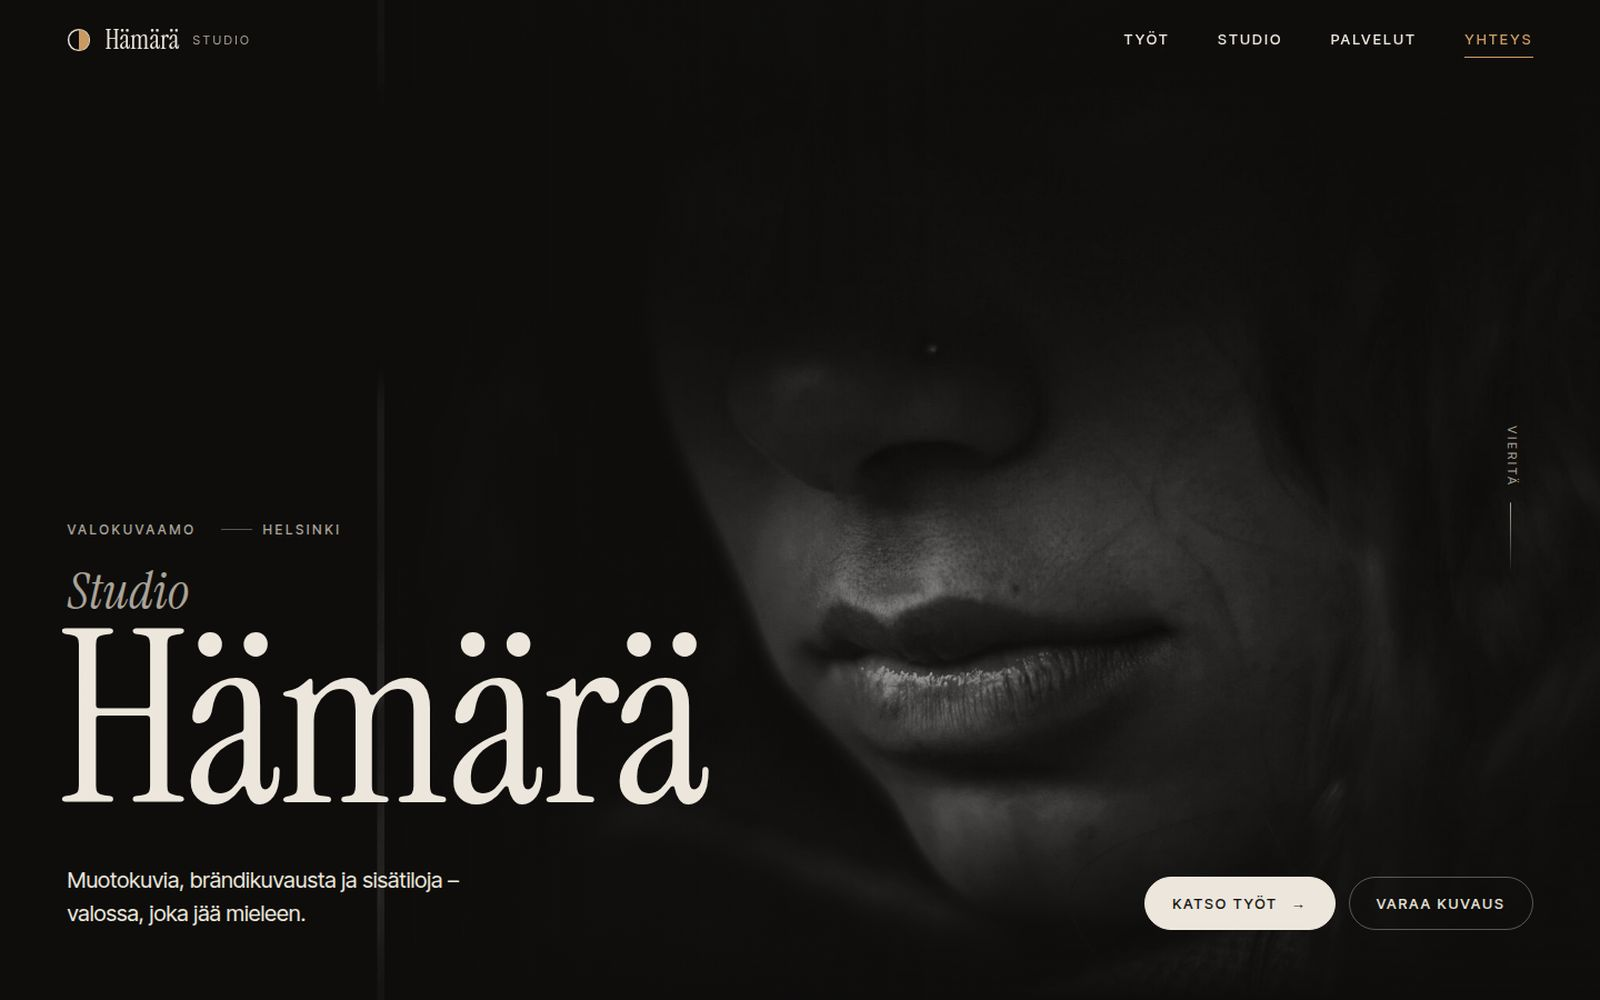
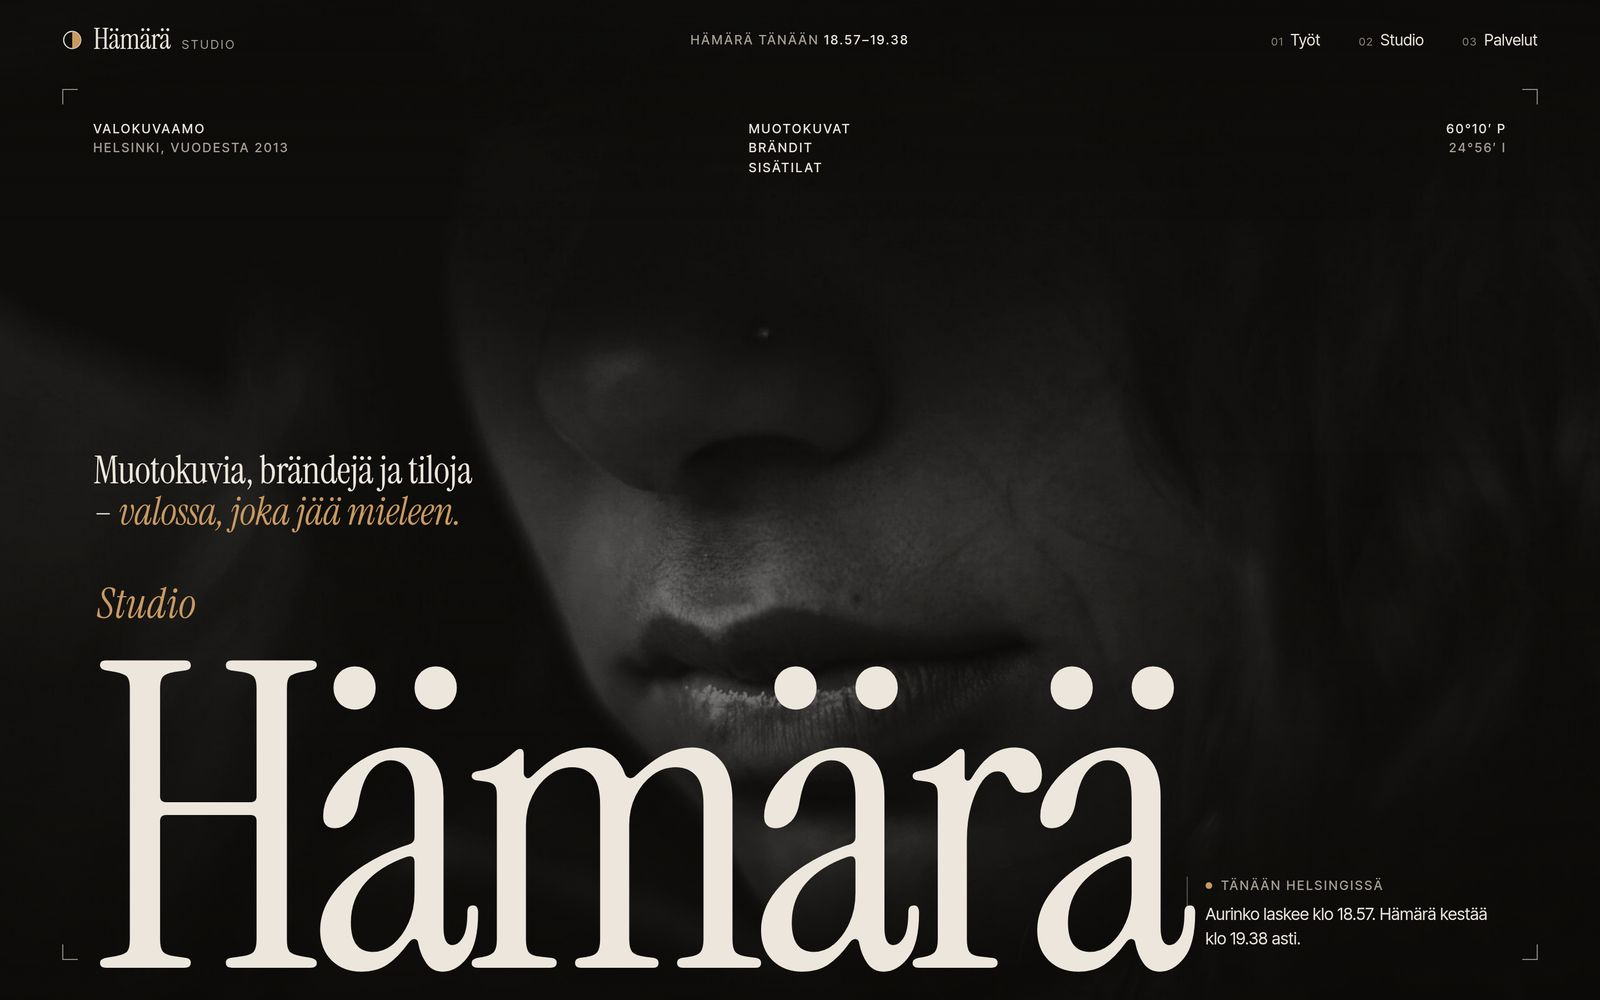
Refresh case studies for the rebuilt concept sites
New desktop + phone covers, fresh screenshots and rewritten copy that
matches the new sites; case pages load Lenis for smooth scrolling.

Claude-Session: https://claude.ai/code/session_01YUi8FNKhUwxqsvjCFjCdqj

diff --git a/projektit/routa-remontit/index.html b/projektit/routa-remontit/index.html
@@ -9,6 +9,7 @@
   <meta property="og:description" content="Konseptiprojekti: luotettava ja selkeä verkkosivusto pirkanmaalaiselle remonttiyritykselle.">
   <meta property="og:image" content="../../assets/img/projektit/routa-remontit/hero.jpg">
   <link rel="icon" href="../../assets/favicon.svg" type="image/svg+xml">
+  <link rel="stylesheet" href="../../assets/vendor/lenis.css">
   <link rel="stylesheet" href="../../assets/css/site.css">
   <script>document.documentElement.classList.add('js')</script>
 </head>
@@ -44,12 +45,12 @@
 
     <section class="split" aria-label="Lähtökohta">
       <span class="label">Lähtökohta</span>
-      <div class="text" data-reveal><p>Remonttiyritys saa töitä puskaradion kautta, mutta uudet asiakkaat eivät löydä sitä verkosta. Remontin ostaja pelkää ennen kaikkea epäluotettavaa tekijää ja yllättäviä kuluja.</p><p>Sivujen piti rakentaa luottamus nopeasti ja tehdä arviopyynnön jättämisestä mahdollisimman helppoa.</p></div>
+      <div class="text" data-reveal><p>Hyvä remonttiyritys saa työnsä puskaradion kautta, mutta verkossa se näyttää samalta kuin kaikki muut. Remontin ostaja pelkää ennen kaikkea epäluotettavaa tekijää ja yllättäviä kuluja.</p><p>Tavoitteena oli brändi, joka tuntuu yhtä tarkalta kuin itse käsityö: rauhallinen, varma ja ylpeä materiaaleistaan.</p></div>
     </section>
 
     <section class="split" aria-label="Ratkaisu">
       <span class="label">Ratkaisu</span>
-      <div class="text" data-reveal><p>Suora, selkeä ilme ja tekstit, jotka vastaavat asiakkaan huoliin ennen kuin hän ehtii kysyä. Jokainen osio johtaa kohti samaa tavoitetta: ilmaisen arvion pyytämistä.</p><ul><li>Luottamustekijät nostettu näkyviin: kiinteä arvio, vakuutus, takuu</li><li>Selkeä prosessi neljässä vaiheessa</li><li>Usein kysytyt kysymykset ja referenssit</li><li>Arviopyyntölomake, joka on nopea täyttää puhelimella</li></ul></div>
+      <div class="text" data-reveal><p>Arkkitehtoninen, typografiavetoinen ilme, jossa isot numerot ja materiaalit kertovat laadusta. Sivu etenee kuin hyvä työmaa: ensin lupaus, sitten materiaalit, työt, prosessi ja takuut.</p><ul><li>Latausintro ja sanoittain syttyvä manifesti</li><li>Kiinnitetty materiaaliosio: puu, laatta, käsityö ja perustus</li><li>Ennen–jälkeen-liukusäädin ja vaakasuunnassa vierivä projektigalleria</li><li>Takuut ja usein kysytyt kysymykset selkeästi esillä</li></ul></div>
     </section>
 
     <figure class="long" style="margin-inline:0" data-reveal>
@@ -58,7 +59,7 @@
 
     <section class="split" aria-label="Mobiili">
       <span class="label">Mobiili</span>
-      <div class="text" data-reveal><p>Remonttia suunnitteleva etsii tekijää usein puhelimella, joten soittaminen ja arvion pyytäminen on tehty mobiilissa mahdollisimman helpoksi.</p></div>
+      <div class="text" data-reveal><p>Mobiilissa kiinnitetyt osiot muuttuvat pyyhkäistäviksi ja palvelut saavat omat kuvansa, joten tarina toimii yhtä hyvin peukalolla selattuna.</p></div>
     </section>
 
     <div class="phones section" data-reveal style="padding-top: clamp(40px, 6vw, 80px)">
@@ -84,6 +85,7 @@
     <a class="label top link-line" href="#">Ylös ↑</a>
   </footer>
 
+  <script src="../../assets/vendor/lenis.min.js" defer></script>
   <script src="../../assets/js/site.js" defer></script>
 </body>
 </html>

diff --git a/projektit/lahde-arkkitehdit/index.html b/projektit/lahde-arkkitehdit/index.html
@@ -9,6 +9,7 @@
   <meta property="og:description" content="Konseptiprojekti: hillitty, editoriaalinen verkkosivusto helsinkiläiselle arkkitehtitoimistolle.">
   <meta property="og:image" content="../../assets/img/projektit/lahde-arkkitehdit/hero.jpg">
   <link rel="icon" href="../../assets/favicon.svg" type="image/svg+xml">
+  <link rel="stylesheet" href="../../assets/vendor/lenis.css">
   <link rel="stylesheet" href="../../assets/css/site.css">
   <script>document.documentElement.classList.add('js')</script>
 </head>
@@ -44,12 +45,12 @@
 
     <section class="split" aria-label="Lähtökohta">
       <span class="label">Lähtökohta</span>
-      <div class="text" data-reveal><p>Arkkitehtitoimiston työ on visuaalista, ja asiakkaat valitsevat toimiston pitkälti aiempien kohteiden perusteella. Sivujen tehtävä on antaa kohteille tilaa — ja pysyä itse taustalla.</p><p>Tavoitteena oli ilme, joka vastaa toimiston työn laatua: hiljainen, harkittu ja ajaton.</p></div>
+      <div class="text" data-reveal><p>Arkkitehtitoimiston asiakkaat valitsevat tekijän aiempien kohteiden perusteella. Sivujen tärkein tehtävä on antaa kohteille tilaa – ja pysyä itse taustalla.</p><p>Tavoitteena oli ilme, joka vastaa toimiston työn laatua: hiljainen, harkittu ja ajaton.</p></div>
     </section>
 
     <section class="split" aria-label="Ratkaisu">
       <span class="label">Ratkaisu</span>
-      <div class="text" data-reveal><p>Galleriamainen rakenne, jossa kuvat ovat pääosassa. Typografia on pidättyväistä, ja tyhjä tila tekee työtä samalla tavalla kuin hyvässä arkkitehtuurissa.</p><ul><li>Projektihakemisto: kohde, tyyppi, vuosi ja sijainti</li><li>Nostettu kohde laajemmin kuvin ja tekstein</li><li>Hienovaraiset animaatiot, jotka eivät vie huomiota kuvilta</li><li>Toimiston esittely ja palvelut tiiviisti</li></ul></div>
+      <div class="text" data-reveal><p>Elokuvamainen aloitus, projektihakemisto ja yksi kohde kerrottuna vierityksen mukana etenevänä tarinana. Typografia on pidättyväistä ja tyhjä tila tekee työtä kuten hyvässä arkkitehtuurissa.</p><ul><li>Projektihakemisto, jossa esikatselukuva seuraa kursoria</li><li>Huvila Kallio kerrottuna kiinnitettynä tarinana: paikka, aines, valo</li><li>Itsestään piirtyvä asemapiirros ja materiaalinäytteet</li><li>Vaalea–tumma–vaalea rytmi, joka ohjaa katsetta</li></ul></div>
     </section>
 
     <figure class="long" style="margin-inline:0" data-reveal>
@@ -58,7 +59,7 @@
 
     <section class="split" aria-label="Mobiili">
       <span class="label">Mobiili</span>
-      <div class="text" data-reveal><p>Mobiilissa kuvat saavat koko ruudun leveyden, ja projektihakemisto muuttuu helposti selattavaksi listaksi.</p></div>
+      <div class="text" data-reveal><p>Mobiilissa projektit muuttuvat porrastetuksi kuvaruudukoksi ja tarina etenee yksi kuva kerrallaan koko ruudun leveydellä.</p></div>
     </section>
 
     <div class="phones section" data-reveal style="padding-top: clamp(40px, 6vw, 80px)">
@@ -84,6 +85,7 @@
     <a class="label top link-line" href="#">Ylös ↑</a>
   </footer>
 
+  <script src="../../assets/vendor/lenis.min.js" defer></script>
   <script src="../../assets/js/site.js" defer></script>
 </body>
 </html>

diff --git a/projektit/studio-hamara/index.html b/projektit/studio-hamara/index.html
@@ -9,6 +9,7 @@
   <meta property="og:description" content="Konseptiprojekti: tumma ja elokuvallinen portfoliosivusto helsinkiläiselle valokuvaajalle.">
   <meta property="og:image" content="../../assets/img/projektit/studio-hamara/hero.jpg">
   <link rel="icon" href="../../assets/favicon.svg" type="image/svg+xml">
+  <link rel="stylesheet" href="../../assets/vendor/lenis.css">
   <link rel="stylesheet" href="../../assets/css/site.css">
   <script>document.documentElement.classList.add('js')</script>
 </head>
@@ -44,12 +45,12 @@
 
     <section class="split" aria-label="Lähtökohta">
       <span class="label">Lähtökohta</span>
-      <div class="text" data-reveal><p>Valokuvaajan sivujen tärkein tehtävä on näyttää kuvat parhaassa mahdollisessa valossa. Kaikki muu on toissijaista.</p><p>Tavoitteena oli tunnelmallinen kokonaisuus, joka erottuu valkoisten portfoliopohjien joukosta ja kertoo kuvaajan omasta tyylistä.</p></div>
+      <div class="text" data-reveal><p>Valokuvaajan sivujen tärkein tehtävä on näyttää kuvat parhaassa mahdollisessa valossa. Kaikki muu on toissijaista.</p><p>Tavoitteena oli tunnelmallinen kokonaisuus, joka erottuu valkoisten portfoliopohjien joukosta ja kertoo kuvaajan omasta valosta.</p></div>
     </section>
 
     <section class="split" aria-label="Ratkaisu">
       <span class="label">Ratkaisu</span>
-      <div class="text" data-reveal><p>Tumma, elokuvallinen ilme, jossa kuvat hehkuvat. Galleria on suodatettavissa kuvaustyypin mukaan, ja jokaisen kuvan voi avata koko ruudun kokoiseksi.</p><ul><li>Suodatettava galleria: muotokuvat, brändikuvaus, sisätilat</li><li>Koko ruudun katselutila, joka toimii myös näppäimistöllä</li><li>Lyhyt esittely ja palvelut ilman turhaa tekstiä</li><li>Yhteydenotto yhdellä klikkauksella</li></ul></div>
+      <div class="text" data-reveal><p>Tumma, elokuvallinen ilme ja sivu, joka elää vuorokauden mukana: se laskee joka päivä Helsingin hämärän ajankohdan. Galleria on toimituksellinen ja suodatettava, ja jokaisen kuvan voi avata koko ruudulle.</p><ul><li>Aukon tavoin avautuva latausintro</li><li>Päivittäin laskettu hämärän hetki Helsingissä</li><li>Animoitu suodatus ja koko ruudun katselutila näppäimistötuella</li><li>Palvelut, joissa esikatselukuva seuraa kursoria</li></ul></div>
     </section>
 
     <figure class="long" style="margin-inline:0" data-reveal>
@@ -58,7 +59,7 @@
 
     <section class="split" aria-label="Mobiili">
       <span class="label">Mobiili</span>
-      <div class="text" data-reveal><p>Mobiilissa galleria muuttuu yhdeksi sarakkeeksi, jossa jokainen kuva saa koko ruudun leveyden.</p></div>
+      <div class="text" data-reveal><p>Mobiilissa galleria muuttuu yhdeksi sarakkeeksi, jossa jokainen kuva saa koko ruudun leveyden, ja suodattimet pysyvät aina ulottuvilla.</p></div>
     </section>
 
     <div class="phones section" data-reveal style="padding-top: clamp(40px, 6vw, 80px)">
@@ -84,6 +85,7 @@
     <a class="label top link-line" href="#">Ylös ↑</a>
   </footer>
 
+  <script src="../../assets/vendor/lenis.min.js" defer></script>
   <script src="../../assets/js/site.js" defer></script>
 </body>
 </html>
